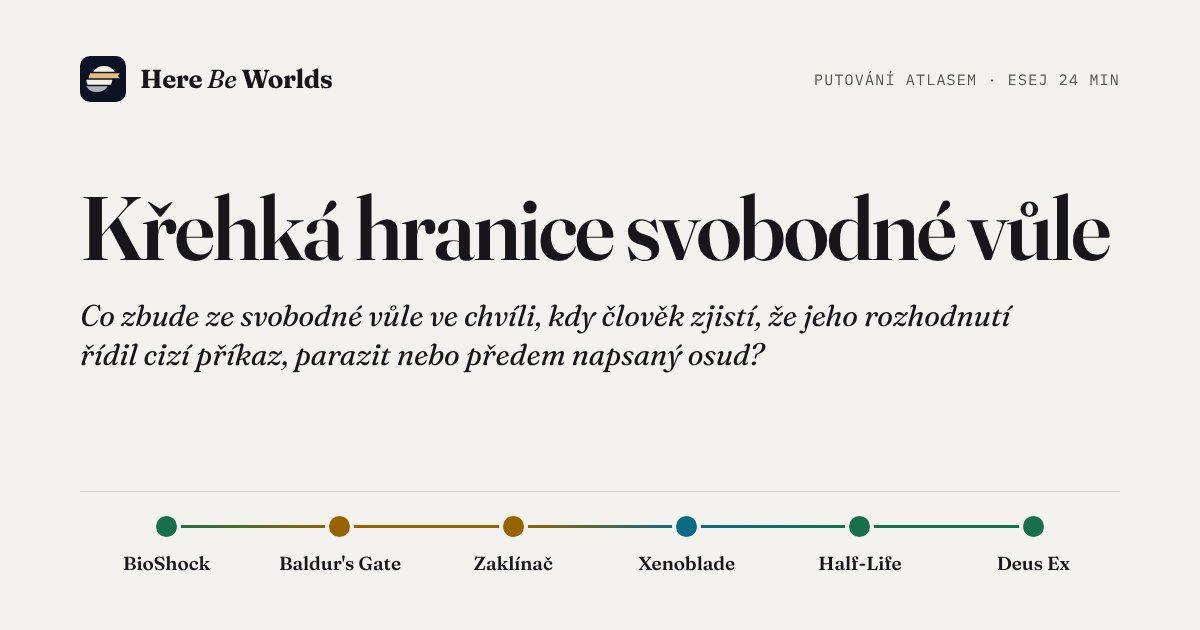
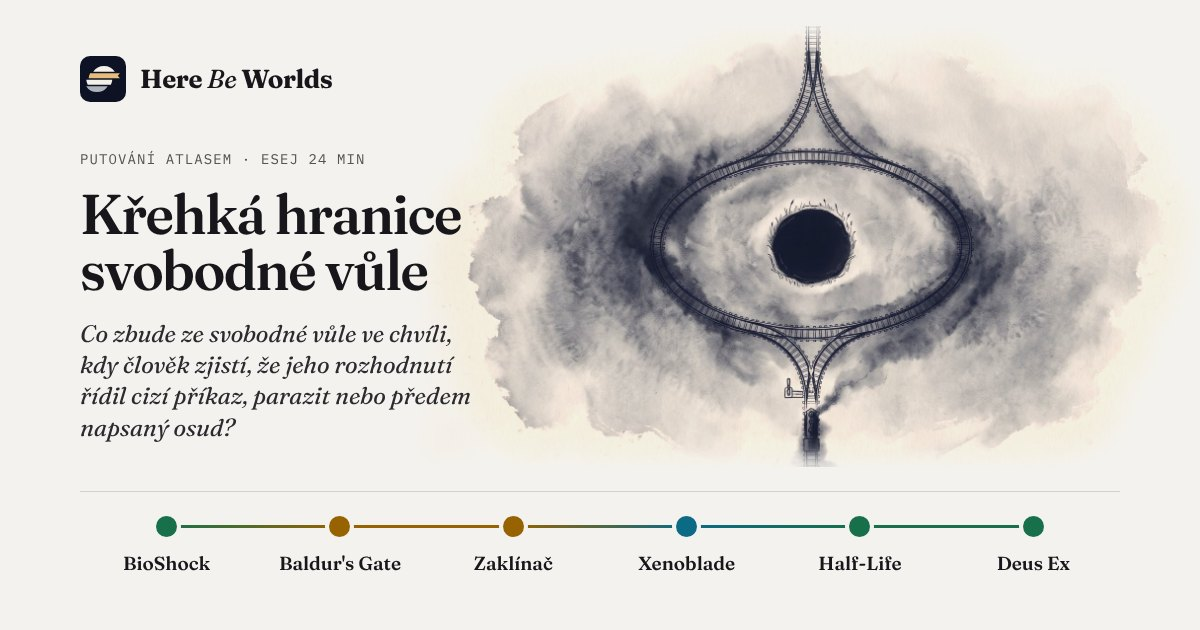
Obrázky k putování Křehká hranice svobodné vůle: koleje jako oko, vodítko do mraků
Claude-Session: https://claude.ai/code/session_01B7obWLKHHEWxurZ5a1svnf

diff --git a/src/lib/trail-images.ts b/src/lib/trail-images.ts
@@ -24,6 +24,7 @@ export const READY: Record<TrailId, number> = {
   scapegoat: 3,
   'who-woke-up': 3,
   'cursed-legacy': 3,
+  'free-will': 2,
 };
 
 const DIR = 'putovani-obrazky';

diff --git a/docs/obrazky-putovani.md b/docs/obrazky-putovani.md
@@ -11,7 +11,7 @@ Stav 2026-11-23: styl nalezený po pěti kolech zkoušek (náhled `/putovani/nav
 - **Jedna myšlenka, malý předmět (majitel 2026-11-23, po nepovedeném kole Uvězněni v kruhu):** velké přeplněné scény (had s průvodem poutníků, nekonečné schodiště, ptačí klec se světem, koleje s planetami) majitel zamítl jako tematicky nesevřené a „poznat, že je to AI“. Nosná je jedna myšlenka na jednom malém předmětu nebo polocelku (vzor: kamenné víčko, žebřík opřený o nebe, gramofon). Vedlejší motivy jen tam, kde tvoří hlavní tvar (most z kořenů, copů a prádla), ne jako zástup figurek a symbolů.
 - **Víc motivů k objevování:** hlavní tvar ať je složený z několika nečekaných předmětů, které člověk objeví až při delším pohledu (vzor: most z dlažby, kořenů, copů a šňůr s prádlem; majitel 2026-11-23). Jen když dávají jednomu tvaru smysl, nikdy jako výčet symbolů tématu.
 - **Neopakovat se, nečekaný znepokojivý detail (majitel 2026-11-25, u Prokletého dědictví):** napříč putováními se začaly opakovat stejné rekvizity (klíčky, zrcadla, obrazy, botičky, stopy) a majitel to zamítl: „chce to přijít s něčím nečekaným, a o to víc znepokojivým, musí tam být nějaký nečekaný moment, detail“. Vzor: kolébka s korunou, jejíž stín na zdi je rakev. Postup: obyčejný předmět (domácí, dětský, rodinný), který na první pohled nic nenaznačuje, a jediný detail, který ho na druhý pohled převrátí. Před návrhem motivů projít seznam níže a nesáhnout po ničem, co v něm už je; když se rekvizita přece jen hodí, říct to majiteli předem. Témata smějí být temná a zlověstná, bez krve a násilí (v promptu `Avoid: … gore`; u temných putování Mood „ominous surrealism … heavy with dread“ místo „quiet“).
-- **Už použité rekvizity (doplňovat po každém putování):** klíče a klíčové dírky (klíč stočený do kruhu, měsíc jako klíčová dírka) · zrcadla (rukavice a zrcátko, zamlžené zrcadlo) · obrazy a rámy (stín, který vypadl z obrazu) · boty a stopy (stopy ve sněhu, prázdné boty u žebříku) · prázdné oděvy (plášť na trůnu, kabát ukazující cestu, rukavice) · žebra a kosti jako stavivo (katedrála ze žeber, jablko se žebry) · trůny (plášť na trůnu, trůn s břízou) · knihy, deníky a dopisy (postavička z knihy, můra z deníku, dopisy z hlavy sochy, hranice srolovaných dopisů) · hodiny (kavalerie z rozbitých hodin) · světla (lucerna, svíčka, oheň u gramofonu) · koště a brky (koště z brků) · kouř (sirka z kouře, beránek z kouře) · nábytek a pokoje (křesla za sklem, okno s pokojem na pláni, koberec nad jámou) · stín jako odhalení (stín klíče, stín z obrazu, stín chapadel u pulce, stín rakve u kolébky) · ostatní: městečko na jevišti s roztrženým nebem, vajíčko ve vajíčku, kamenné víčko, domy otáčející se za chodcem, most z dlažby, kořenů, copů a prádla, prapory z hejn ptáků, kolotoč z děl, žebřík opřený o nebe, gramofon s hvězdami, sklenice s pulcem, mince na hraně, řetěz s dětským poutem, šperkovnice s mléčnými zuby (a kolébka v seznamu stínů).
+- **Už použité rekvizity (doplňovat po každém putování):** klíče a klíčové dírky (klíč stočený do kruhu, měsíc jako klíčová dírka) · zrcadla (rukavice a zrcátko, zamlžené zrcadlo) · obrazy a rámy (stín, který vypadl z obrazu) · boty a stopy (stopy ve sněhu, prázdné boty u žebříku) · prázdné oděvy (plášť na trůnu, kabát ukazující cestu, rukavice) · žebra a kosti jako stavivo (katedrála ze žeber, jablko se žebry) · trůny (plášť na trůnu, trůn s břízou) · knihy, deníky a dopisy (postavička z knihy, můra z deníku, dopisy z hlavy sochy, hranice srolovaných dopisů) · hodiny (kavalerie z rozbitých hodin) · světla (lucerna, svíčka, oheň u gramofonu) · koště a brky (koště z brků) · kouř (sirka z kouře, beránek z kouře) · nábytek a pokoje (křesla za sklem, okno s pokojem na pláni, koberec nad jámou) · stín jako odhalení (stín klíče, stín z obrazu, stín chapadel u pulce, stín rakve u kolébky) · ostatní: městečko na jevišti s roztrženým nebem, vajíčko ve vajíčku, kamenné víčko, domy otáčející se za chodcem, most z dlažby, kořenů, copů a prádla, prapory z hejn ptáků, kolotoč z děl, žebřík opřený o nebe, gramofon s hvězdami, sklenice s pulcem, mince na hraně, řetěz s dětským poutem, šperkovnice s mléčnými zuby, koleje a výhybka (smyčka jako oko), obojek s vodítkem do mraků (a kolébka v seznamu stínů). Zkoušené a zamítnuté u svobodné vůle: hrací skříňka s baletkou, kostka ve vzduchu, piliny s magnetem (třikrát nevyšlo), budka zatlučená zevnitř.
 - **Světlo:** výchozí je **čistě modrá tuš bez zlaté**. Zlatá (#E5BE7E) jen výjimečně, když ji řádek scény výslovně jmenuje a je jádrem motivu (klíčová dírka na nebi, oheň u gramofonu). Gemini jinak zlatou přidává sám (okénka, lucerny), protože ji má vzorový obrázek: proto prompt výslovně zakazuje převzít lampu ze vzoru (majitel 2026-11-23: „pořád stejné rozsvícené okýnko a lucerna“).
 - **Motiv:** detail nebo polocelek, ne velká scéna. Obraz s druhým čtením: na první pohled obyčejný, na druhý nese otázku eseje. Prázdný prostor kolem.
 - **Nikdy:** text, písmena, podpisy, rámečky; postavy, loga a místa z her; náboženské symboly; lidé (nanejvýš drobná postava zezadu, když to motiv potřebuje); cákance tuše; airbrush; uhlazená digitální linka.
@@ -23,7 +23,7 @@ Stav 2026-11-23: styl nalezený po pěti kolech zkoušek (náhled `/putovani/nav
 - Masky: `maska/<slug>-N.png` podle tuše pro tmavý motiv (`python3 scripts/ink-masks.py`, pak zkopírovat z `navrh-obrazku/maska/`, nebo upravit cestu ve skriptu), `maska/freska.png` obecná.
 - Které putování obrázky má: `READY` v `src/lib/trail-images.ts`. Obrázky se ukážou jen u schválené eseje.
 - Rejstřík `/putovani/` má rozvržení karet ve dvou sloupcích s obrázkem nahoře (C, vybráno ze tří variant: A obraz za textem, B střídavé desky). Dokud nemají obrázky všechna putování, stojí vedle karty s obrázkem textové karty.
-- Na webu (2026-11-23): Hra ví, že ji hraješ (městečko na jevišti s roztrženým namalovaným nebem; postavička vylezlá z ilustrace v knize; stín, který vypadl z obrazu na podlahu); Na mrtvole boha (tři: prázdný plášť na trůnu držený provazy davu; trůn, kterým prorůstá bříza; jablko s žebry místo jádřince); Netvor v zrcadle (zatím jeden: stopy ve sněhu, které se z bot mění v tlapy); Mluví už jen mrtví (tři: prázdný kabát, který ukazuje cestu; můra s křídly z deníku; potopená hlava sochy, z níž stoupají listy dopisu k loďce); Uvězněni v kruhu (tři: klíč stočený do kruhu se stínem rovného klíče; vajíčko ve vajíčku; z kouře dohořelé sirky nová sirka); Bohové jako břemeno (katedrála ze žeber, kamenné víčko); Město, které dýchá (domy, které se otáčejí za chodcem; most z dlažby, kořenů, copů a prádla); Dům, ze kterého nejde odejít (měsíc jako zlatá klíčová dírka nad městečkem, okno uprostřed pláně s pokojem uvnitř). Válka, kterou nikdo nevyhraje (tři obrázky: prapory z hejn ptáků, kolotoč z děl, kavalerie z rozbitých hodin se svíčkou v temnu); Pod lhostejnými hvězdami (žebřík opřený o nebe s prázdnými botami a lucernou, gramofon, ze kterého se sypou hvězdy, u táboráku); Kdo za to může? (tři: prázdná rukavice ukazuje na zrcátko a odraz ukazuje zpět na diváka; koberec, pod jehož rohem je jáma se schody a koště z brků; z hranice srolovaných dopisů odplouvá kouř jako spící beránek, 2026-11-25); Kdo se to probudil? (tři: zamlžené zrcadlo nad umyvadlem, v jehož setřeném pruhu je další zrcadlo; dvě stejná křesla v pokoji rozděleném sklem, které prochází mincí na hraně; sklenice s pulcem, jehož stín na zdi jsou chapadla; 2026-11-25); Prokleté dědictví (tři: kolébka s korunou, jejíž stín je rakev, křížek na koruně vyretušovaný; řetěz z praskliny v zemi s otevřeným dětským poutem, hnědý nádech řetězu převedený do indiga; šperkovnice s náhrdelníkem z mléčných zubů; 2026-11-25). Postup: 5 motivů, vybrat 2. **Motivy: surrealismus a neobvyklé kompozice, klidně velké měřítko a zachycený pohyb (Magritte, Dalí), neobvyklé spojení předmětů (v duchu Magritta), jen lehce doslovné** — první kolo s doslovnými motivy (tapeta, dveře, kolébka) majitel zamítl jako nenápadité. Do promptu řádek `Mood: subtle surrealism in the spirit of Magritte: one unexpected combination, quiet and uncanny, never literal or explanatory. Rich in discoverable detail: several unexpected secondary motifs are woven into the main forms, so the viewer keeps finding new things on a second look.` Po přidání prvního obrázku obnovit kartu pro sdílení: `npm run og -- <slug> putovani` (fonty a Chromium viz CLAUDE.md). Masky: `python3 scripts/ink-masks.py public/putovani-obrazky/<slug>-1.jpg …`; když je světlý papír uprostřed součástí motivu (mezera mezi konci mostu), přidej `--fill`. Skript dělá dvě masky: `<soubor>.png` pro tmavý motiv a širokou `<soubor>-light.png` pro světlý (papír tam schová multiply a lehké vybělení `brightness(1.06) saturate(0.8)`, maska nesmí zamlžit slabé tahy; majitel 2026-11-23). Ve světlém motivu se v eseji kresba ořezává jen širokou maskou (fresková by ořízla tahy štětce nahoře a stopy u spodního okraje); v tmavém motivu (esej i rejstřík) jen fresková maska: tvar je vždy **zvlněný obdélník do ztracena**, nikdy vykrojený podle skvrn tuše (majitel 2026-11-23). Zkoušený okraj podle tahů štětce se světlým lemem majitel zamítl jako „příliš“: v tmavém motivu okraje nebudou tak působivé jako ve světlém a je to tak správně; v rejstříku zůstává i fresková (obrázek je tam oříznutý na 3 : 2).
+- Na webu (2026-11-23): Hra ví, že ji hraješ (městečko na jevišti s roztrženým namalovaným nebem; postavička vylezlá z ilustrace v knize; stín, který vypadl z obrazu na podlahu); Na mrtvole boha (tři: prázdný plášť na trůnu držený provazy davu; trůn, kterým prorůstá bříza; jablko s žebry místo jádřince); Netvor v zrcadle (zatím jeden: stopy ve sněhu, které se z bot mění v tlapy); Mluví už jen mrtví (tři: prázdný kabát, který ukazuje cestu; můra s křídly z deníku; potopená hlava sochy, z níž stoupají listy dopisu k loďce); Uvězněni v kruhu (tři: klíč stočený do kruhu se stínem rovného klíče; vajíčko ve vajíčku; z kouře dohořelé sirky nová sirka); Bohové jako břemeno (katedrála ze žeber, kamenné víčko); Město, které dýchá (domy, které se otáčejí za chodcem; most z dlažby, kořenů, copů a prádla); Dům, ze kterého nejde odejít (měsíc jako zlatá klíčová dírka nad městečkem, okno uprostřed pláně s pokojem uvnitř). Válka, kterou nikdo nevyhraje (tři obrázky: prapory z hejn ptáků, kolotoč z děl, kavalerie z rozbitých hodin se svíčkou v temnu); Pod lhostejnými hvězdami (žebřík opřený o nebe s prázdnými botami a lucernou, gramofon, ze kterého se sypou hvězdy, u táboráku); Kdo za to může? (tři: prázdná rukavice ukazuje na zrcátko a odraz ukazuje zpět na diváka; koberec, pod jehož rohem je jáma se schody a koště z brků; z hranice srolovaných dopisů odplouvá kouř jako spící beránek, 2026-11-25); Kdo se to probudil? (tři: zamlžené zrcadlo nad umyvadlem, v jehož setřeném pruhu je další zrcadlo; dvě stejná křesla v pokoji rozděleném sklem, které prochází mincí na hraně; sklenice s pulcem, jehož stín na zdi jsou chapadla; 2026-11-25); Prokleté dědictví (tři: kolébka s korunou, jejíž stín je rakev, křížek na koruně vyretušovaný; řetěz z praskliny v zemi s otevřeným dětským poutem, hnědý nádech řetězu převedený do indiga; šperkovnice s náhrdelníkem z mléčných zubů; 2026-11-25); Křehká hranice svobodné vůle (dva: koleje shora, které se u výhybky rozdělí a zase spojí kolem kulatého jezírka, takže tvoří oko; prázdný obojek s vodítkem napnutým do mraků; 2026-11-25). Postup: 5 motivů, vybrat 2. **Motivy: surrealismus a neobvyklé kompozice, klidně velké měřítko a zachycený pohyb (Magritte, Dalí), neobvyklé spojení předmětů (v duchu Magritta), jen lehce doslovné** — první kolo s doslovnými motivy (tapeta, dveře, kolébka) majitel zamítl jako nenápadité. Do promptu řádek `Mood: subtle surrealism in the spirit of Magritte: one unexpected combination, quiet and uncanny, never literal or explanatory. Rich in discoverable detail: several unexpected secondary motifs are woven into the main forms, so the viewer keeps finding new things on a second look.` Po přidání prvního obrázku obnovit kartu pro sdílení: `npm run og -- <slug> putovani` (fonty a Chromium viz CLAUDE.md). Masky: `python3 scripts/ink-masks.py public/putovani-obrazky/<slug>-1.jpg …`; když je světlý papír uprostřed součástí motivu (mezera mezi konci mostu), přidej `--fill`. Skript dělá dvě masky: `<soubor>.png` pro tmavý motiv a širokou `<soubor>-light.png` pro světlý (papír tam schová multiply a lehké vybělení `brightness(1.06) saturate(0.8)`, maska nesmí zamlžit slabé tahy; majitel 2026-11-23). Ve světlém motivu se v eseji kresba ořezává jen širokou maskou (fresková by ořízla tahy štětce nahoře a stopy u spodního okraje); v tmavém motivu (esej i rejstřík) jen fresková maska: tvar je vždy **zvlněný obdélník do ztracena**, nikdy vykrojený podle skvrn tuše (majitel 2026-11-23). Zkoušený okraj podle tahů štětce se světlým lemem majitel zamítl jako „příliš“: v tmavém motivu okraje nebudou tak působivé jako ve světlém a je to tak správně; v rejstříku zůstává i fresková (obrázek je tam oříznutý na 3 : 2).
 
 ## Jak generovat
 

diff --git a/CLAUDE.md b/CLAUDE.md
@@ -83,7 +83,7 @@ Kroniky a eseje **nejsou** v `data/`.
 | `/notes/` | `src/pages/notes/index.astro` | `NotesPage` — obsah oddílů (lepí se pod hlavičku, oddíl, který čteš, je podtržený; na telefonu jeden řádek posuvný do strany, 2026-11-25), rejstříkový seznam pojmů (štítek vlevo, výklad vpravo), legenda 1–5 jako pruh os; oddíly Charakter světa · Profil světa · Triáda (tři pojmy s odkazy do Anatomie a do Galerie triád / Mapy neznáma, pod nimi typy hříchů, dilemata, druhy tajemství a kdo drží mezeru s ikonami – texty z `triad-types.json`, 2026-11-24 se souhlasem majitele) · Příbuznost světů (4 pilíře, 5 stupňů slovy, bez procent) · Kompas a ladění · Hlubina času (2026-11-25 s pokynem majitele: šest pojmů – sloupec a hladina, období her a rysky, dějiny a fundamentální události, odhad, mýtus a cyklus, stupnice, naše časová osa – a odkaz na stránku; `noteDeepTime*`) · Kánon (texty v `data/meta/notes.ts`) |
 | `/anatomie-herniho-lore/` | `src/pages/anatomie-herniho-lore/index.astro` | `EssayPage` (obsah `ReadingToc` vlevo, čtecí sloupec jako kronika, doba čtení pod podtitulem) |
 | `/teoreticke-zazemi/` | `src/pages/teoreticke-zazemi/index.astro` | `EssayPage` z `content/essays/teoreticke-zazemi.md`: prameny atlasu po oblastech (fikční světy, fantastika, herní studia, hrůza a posvátno, mýtus, paměť, osoba a identita, moc a dohled, dílna tvůrců), tabulka pojmů, výhrady k autorům, co by sem ještě patřilo, seznam literatury. Odkaz z Anatomie (oddíl Na čem metoda stojí) a z patičky. **Po zapracování nové knihy doplnit i sem.** |
-| `/putovani/` | `src/pages/putovani/index.astro` | `TrailsIndex` (`src/components/trails/`, styly `trails.css`): hlavička jako atlas, filtry **Svět** a **Téma** (rozsvítí stezky, kterými svět prochází / které se tématu dotýkají, ostatní ztlumí; `?svet=<id>`, `?tema=<slug>`; klik na téma v řádku dělá totéž, jméno světa v kartě vede rovnou na spis světa (majitel 2026-11-24)); rejstřík 22 stezek jako **karty ve dvou sloupcích** (rozvržení C, majitel 2026-11-23; karta: obrázek nahoře přes celou šířku karty do ztracena, 3 : 2, pak název, popis, světy s linkou v barvě archetypu nad každým jménem, témata eseje jako hranaté štítky na tónovaném podkladu (vybrané téma v akcentu) = `themes` v `trails.ts`, 2–4 na stezku, a za nimi „Esej · N min“; karta bez obrázku je jen text; na telefonu jeden sloupec); oddíl **Kde se stezky kříží** (mřížka stezky × všechny světy podle abecedy, i ty na jediné stezce, vpravo počet (majitel 2026-11-22), tečka v barvě archetypu, pod kurzorem se rozsvítí sloupec i řádek, názvy stezek nahoře i dole; na telefonu seznam dvanácti nejvíc křížených světů). V hlavičce webu odkaz Putování hned za Atlasem; Putování dne na titulní straně vedou na stránky putování. Staré adresy `/stezky/…` přesměrovávají (`src/pages/stezky/`, `RedirectPage.astro`). Obrázky k putováním (jediné místo na webu s obrázky): styl a postup `docs/obrazky-putovani.md`, soubory `public/putovani-obrazky/`, seznam `READY` v `src/lib/trail-images.ts`; náhled v rejstříku (`TrailsIndex images`) a v eseji pod úvodním citátem a uprostřed (`EssayPage hero/hero2/heroLive`), okraj do ztracena maskou. Zatím Bohové jako břemeno, Dům, ze kterého nejde odejít, Pod lhostejnými hvězdami, Válka, kterou nikdo nevyhraje, Město, které dýchá, Uvězněni v kruhu, Mluví už jen mrtví, Netvor v zrcadle, Na mrtvole boha, Hra ví, že ji hraješ, Kdo za to může?, Kdo se to probudil? a Prokleté dědictví. Zkušební náhled `/putovani/navrh-obrazku/` (noindex). |
+| `/putovani/` | `src/pages/putovani/index.astro` | `TrailsIndex` (`src/components/trails/`, styly `trails.css`): hlavička jako atlas, filtry **Svět** a **Téma** (rozsvítí stezky, kterými svět prochází / které se tématu dotýkají, ostatní ztlumí; `?svet=<id>`, `?tema=<slug>`; klik na téma v řádku dělá totéž, jméno světa v kartě vede rovnou na spis světa (majitel 2026-11-24)); rejstřík 22 stezek jako **karty ve dvou sloupcích** (rozvržení C, majitel 2026-11-23; karta: obrázek nahoře přes celou šířku karty do ztracena, 3 : 2, pak název, popis, světy s linkou v barvě archetypu nad každým jménem, témata eseje jako hranaté štítky na tónovaném podkladu (vybrané téma v akcentu) = `themes` v `trails.ts`, 2–4 na stezku, a za nimi „Esej · N min“; karta bez obrázku je jen text; na telefonu jeden sloupec); oddíl **Kde se stezky kříží** (mřížka stezky × všechny světy podle abecedy, i ty na jediné stezce, vpravo počet (majitel 2026-11-22), tečka v barvě archetypu, pod kurzorem se rozsvítí sloupec i řádek, názvy stezek nahoře i dole; na telefonu seznam dvanácti nejvíc křížených světů). V hlavičce webu odkaz Putování hned za Atlasem; Putování dne na titulní straně vedou na stránky putování. Staré adresy `/stezky/…` přesměrovávají (`src/pages/stezky/`, `RedirectPage.astro`). Obrázky k putováním (jediné místo na webu s obrázky): styl a postup `docs/obrazky-putovani.md`, soubory `public/putovani-obrazky/`, seznam `READY` v `src/lib/trail-images.ts`; náhled v rejstříku (`TrailsIndex images`) a v eseji pod úvodním citátem a uprostřed (`EssayPage hero/hero2/heroLive`), okraj do ztracena maskou. Zatím Bohové jako břemeno, Dům, ze kterého nejde odejít, Pod lhostejnými hvězdami, Válka, kterou nikdo nevyhraje, Město, které dýchá, Uvězněni v kruhu, Mluví už jen mrtví, Netvor v zrcadle, Na mrtvole boha, Hra ví, že ji hraješ, Kdo za to může?, Kdo se to probudil?, Prokleté dědictví a Křehká hranice svobodné vůle. Zkušební náhled `/putovani/navrh-obrazku/` (noindex). |
 | `/putovani/[id]/` | `src/pages/putovani/[id].astro` | Stránka každého putování, adresa = český slug z `TRAIL_SLUGS` (`trails.ts`), stejný jako soubor eseje v `content/trails/`. `EssayPage` s `trail`: pod hlavičkou `TrailCast` (světy) a `TrailThemes` (témata → `/putovani/?tema=`), před Zdroji `TrailWorlds` (souřadnice s výraznými názvy, seznam světů s archetypem a podžánrem). **Esej se ukáže jen s `approved: true` ve frontmatteru** (schvaluje majitel); jinak stránka ukáže rámeček „Esej připravujeme“, Světy putování a oddíl „Na čem putování stojí“ (jména pramenů z tabulky Prameny podle stezek v `docs/prameny/README.md`, `trailSources` v `src/lib/trail-pages.ts`). Neschválené eseje mají náhled `/putovani/navrh/<slug>/` (`noindex`, z webu na něj nic nevede). Schválené (2026-11-21): `na-mrtvole-boha`, `kdo-za-to-muze`, `kdo-se-to-probudil`, `netvor-v-zrcadle`, `mluvi-uz-jen-mrtvi`, `bohove-jako-bremeno`, `valka-kterou-nikdo-nevyhraje`, `proklete-dedictvi`, `krehka-hranice-svobodne-vule`, `uvezneni-v-kruhu`, `hra-vi-ze-ji-hrajes`, `raj-ktery-se-nepovedl`, `logo-nad-troskami`, `smich-nad-propasti`, `mesto-ktere-dycha`, `pod-lhostejnymi-hvezdami`, `kdo-drzi-kroniku`, `kopie-bez-originalu`, `dum-ze-ktereho-nejde-odejit`, `prace-ktera-nikdy-nekonci`, `jmeno-jako-klic-i-kletba`, `nakaza-s-vlastni-vuli` (všech 22). |
 | `/temata/` | `src/pages/temata/index.astro` | `ThemesIndex` (`src/components/themes/`, styly `themes.css`, 2026-11-24): pás hlavičky, řazení Podle abecedy / Podle počtu světů, rejstřík témat ve dvou sloupcích (název → stránka tématu, otázka kurzívou, otisk světů jako čtverečky v barvě archetypu, počet světů a putování) a **Kde se témata potkávají** (trojúhelníková mřížka téma × téma, kruh podle počtu světů s oběma tématy, prázdné šrafované, najetí rozsvítí řádek i sloupec a vypíše dvojici; na telefonu skrytá). |
 | `/temata/[slug]/` | `src/pages/temata/[slug].astro` | `ThemePage`, adresa = český název bez diakritiky (`themePageSlug` v `src/lib/themes.ts`). Hlavička v pásu: štítek „Téma“ (odkaz na rejstřík), název, otázka, „N světů · N archetypů · N putování“, vpravo **obloha z titulní strany v tuši** (`ThemeSky`; hvězdy na stejných místech díky `src/lib/sky.ts`, světy tématu rozsvícené v barvě archetypu a spojené přerušovanou nejkratší trasou, ostatní tlumeně; najetí na hvězdu ukáže jméno). Oddíly: **Světy** (záznamy ve třech sloupcích: linka v barvě archetypu, název, archetyp · podžánr, jádro kurzívou; najetí rozsvítí hvězdu) · **Podoba tématu** (Archetypy: řádek na archetyp, čtverečky = všechny jeho světy, plné = s tématem; Souřadnice: `AxisRange` s prázdným kosočtvercem průměru celého atlasu `reference`) · **Putování** (putování s tématem v `trails.ts` `themes`, první obrázek přes masku, otázka eseje, trasa světů, světy tématu tučně) · **Potkává se s** (šest témat nejčastěji ve stejných světech, `neighbourThemes`; není to příbuznost světů) · odkazy Otevřít v atlasu · Všechna témata. Podklady skládá při sestavení `src/lib/theme-pages.ts`. Odkazy na stránky témat: hledání (lupa), atlas (Další pohledy a „O tématu …“ pod počtem výsledků při filtru tématu), patička. Témata na kartě světa vedou na stránky témat (majitel 2026-11-24). |
